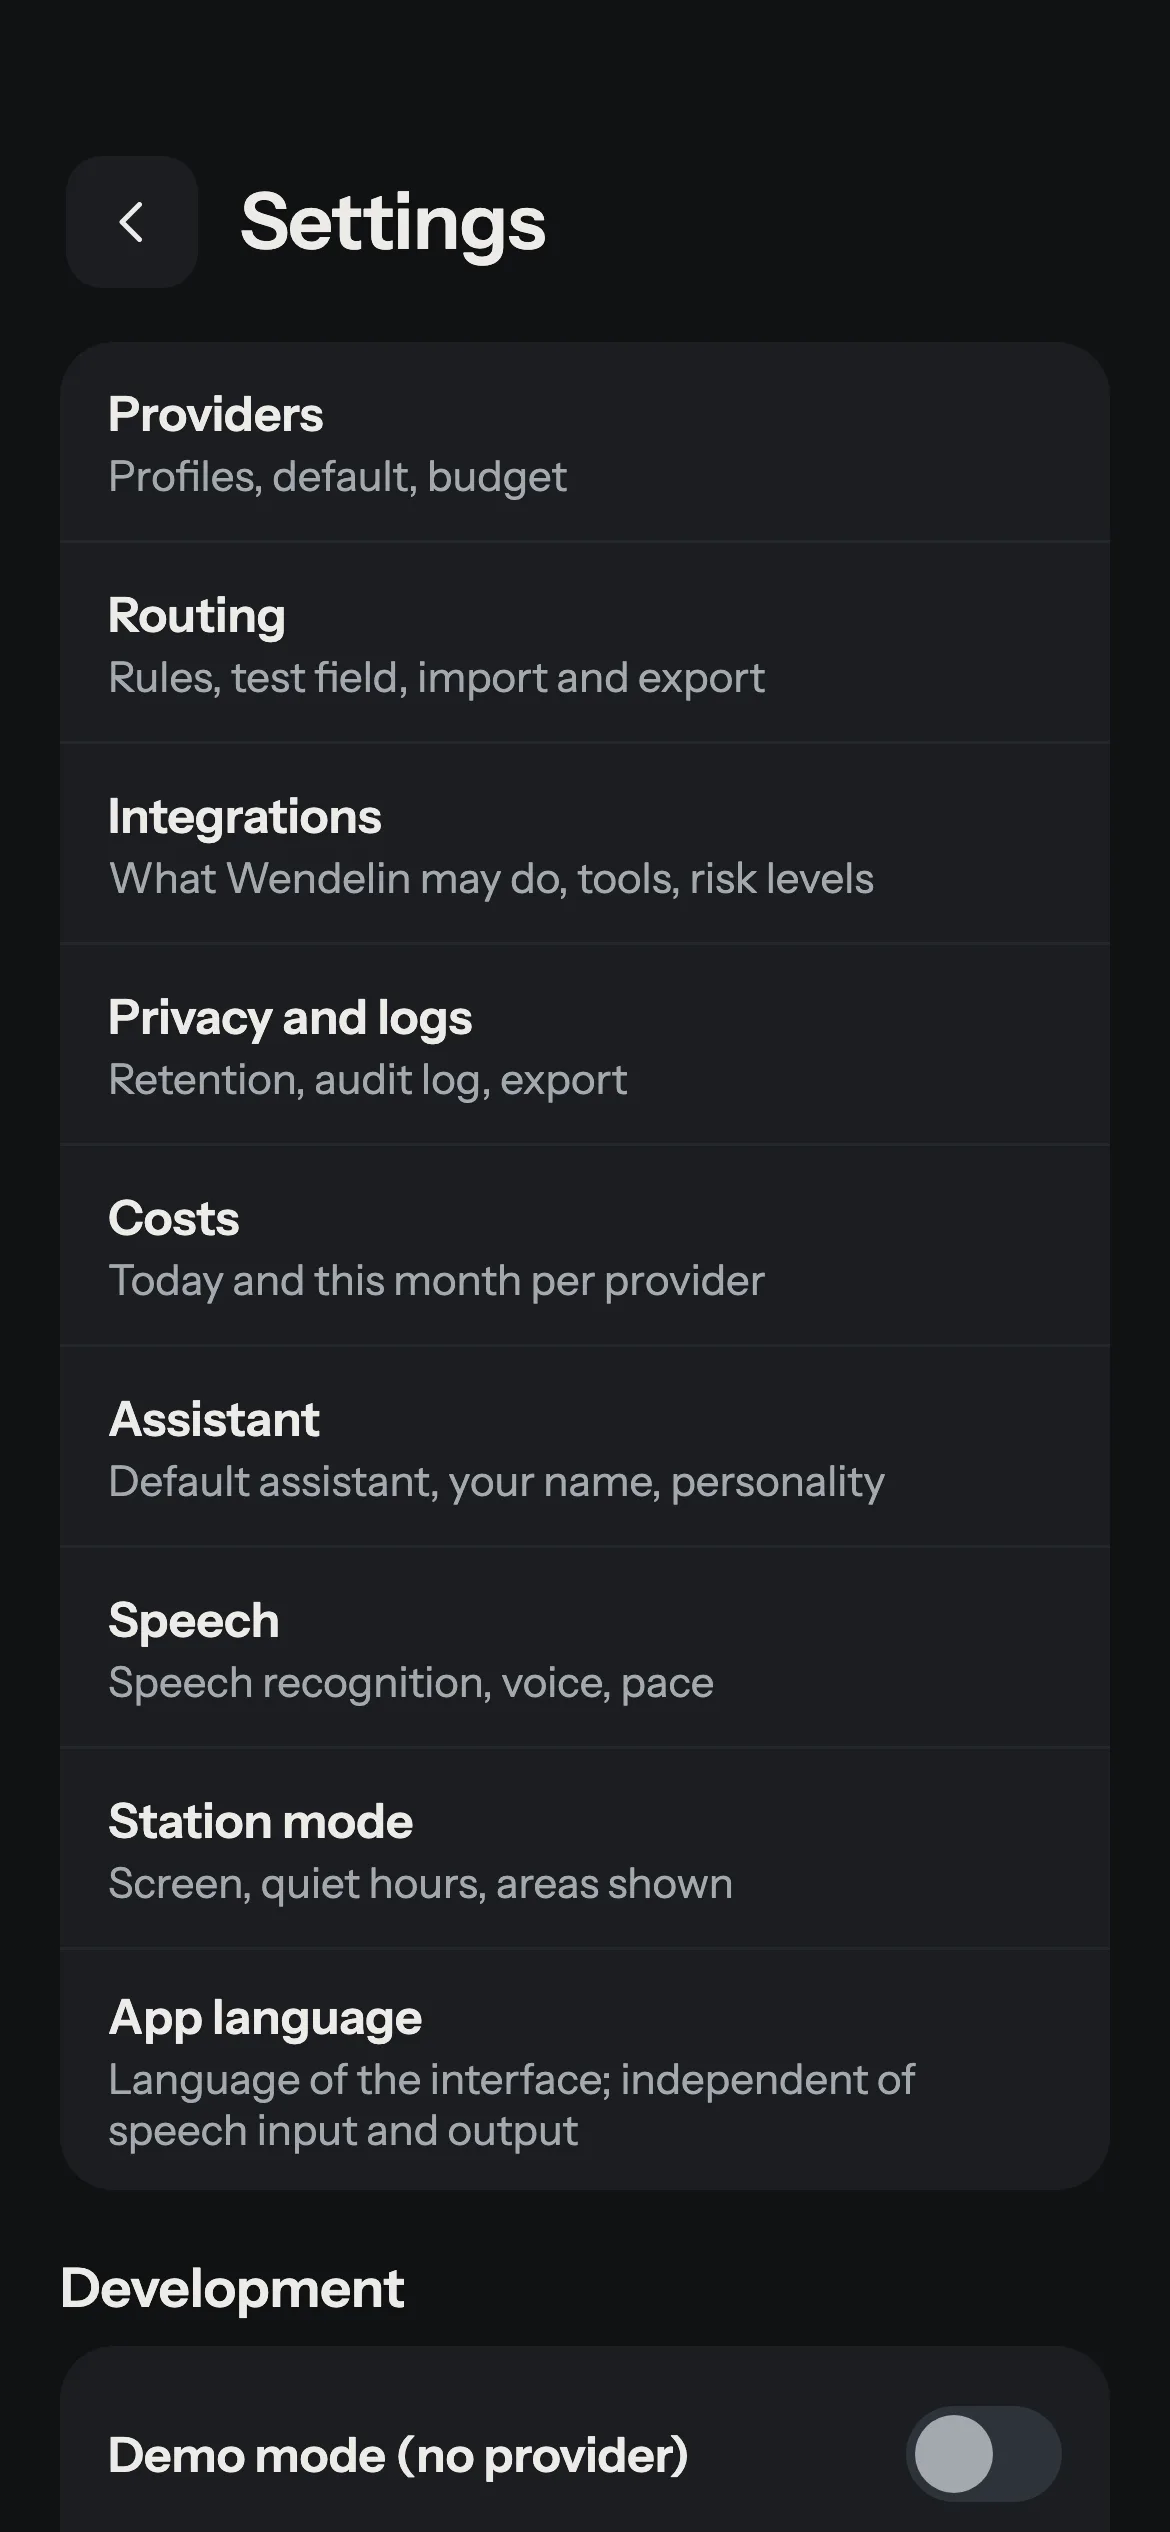
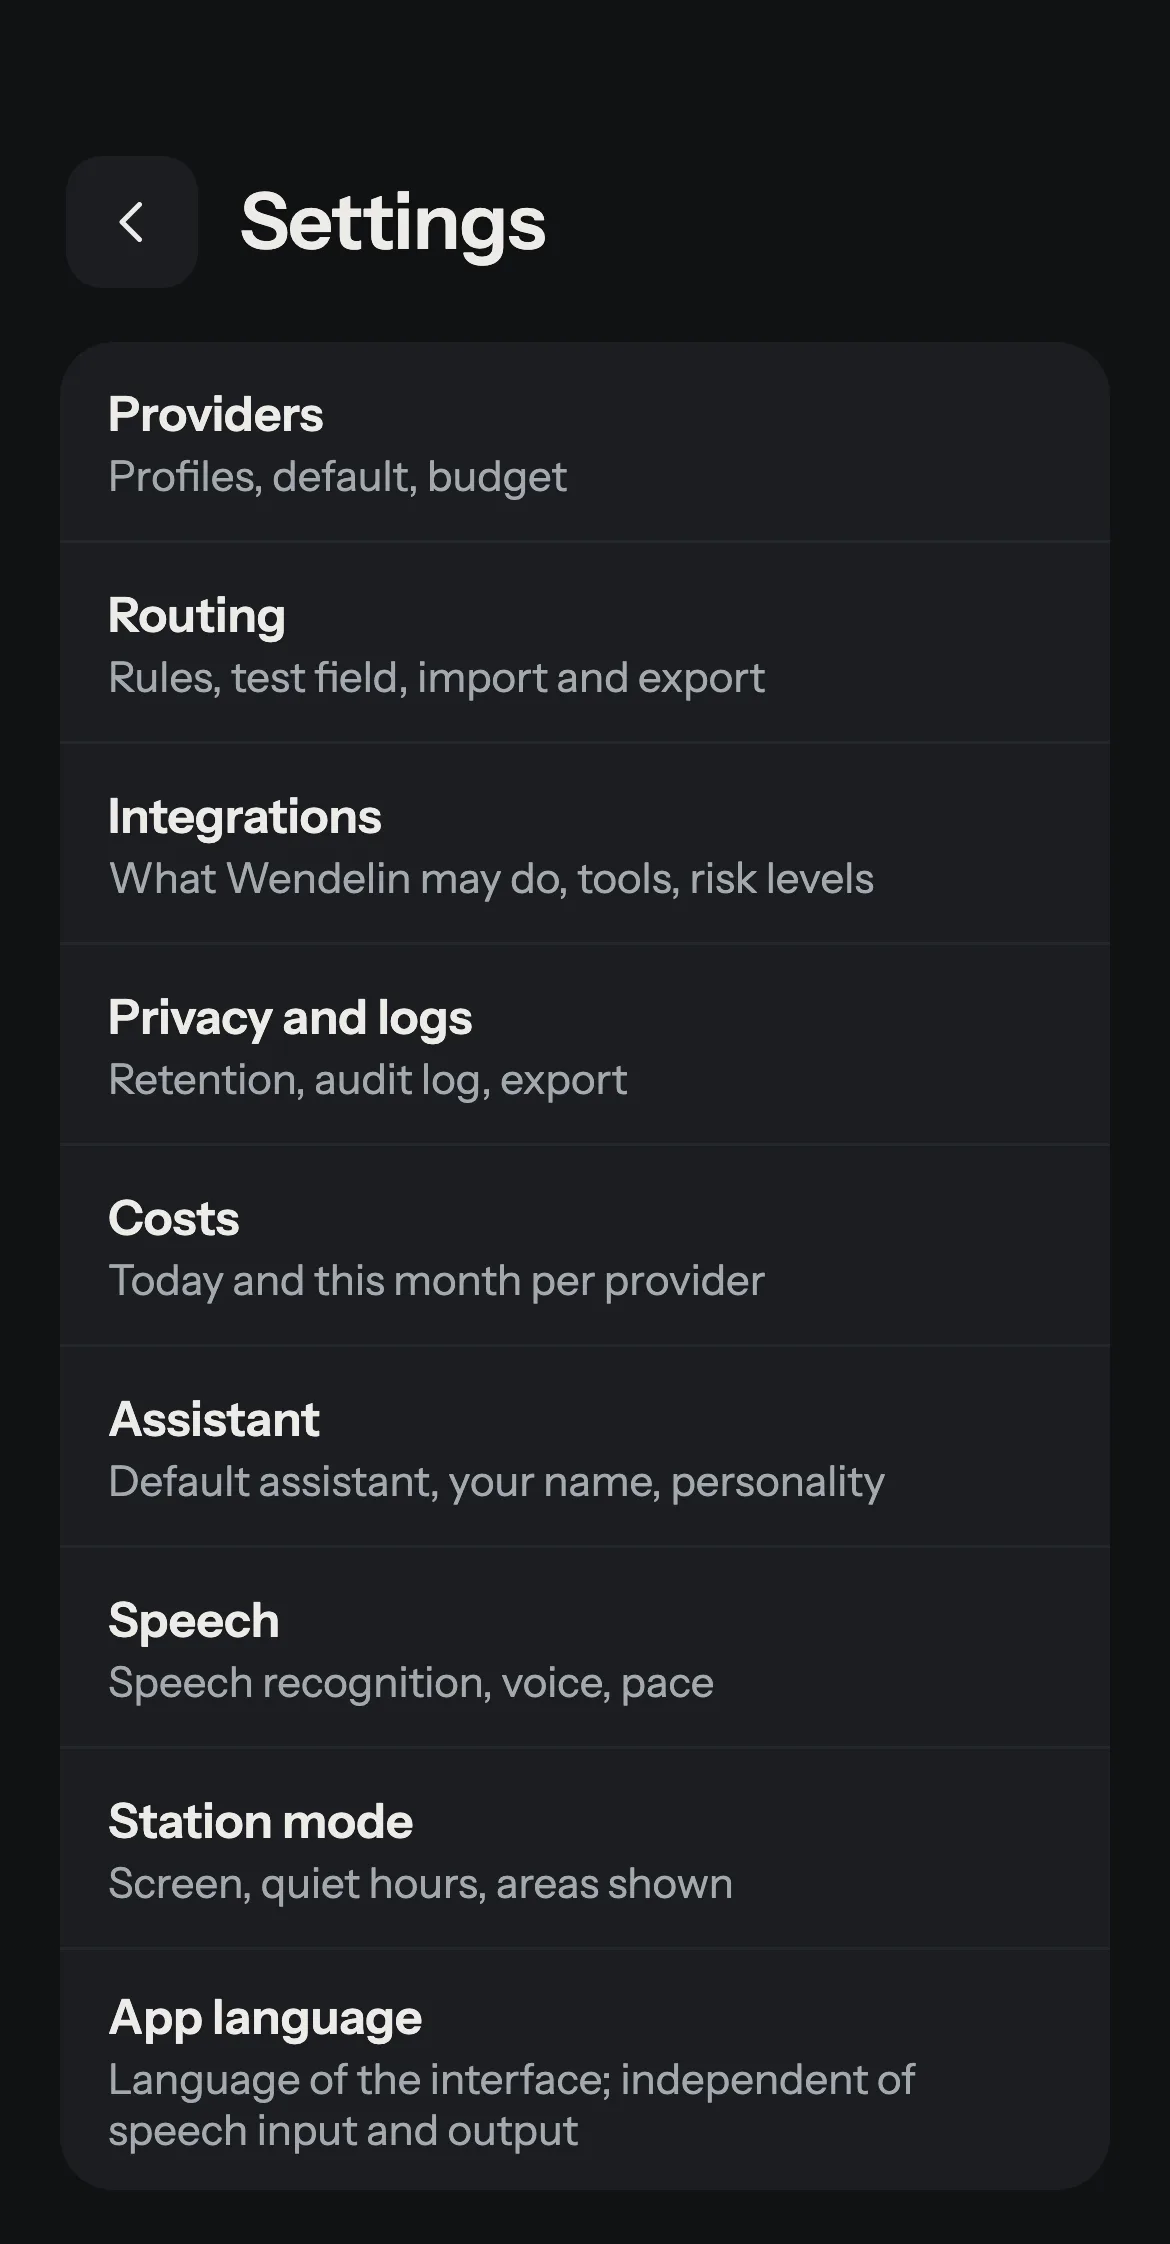
fix: WP169 l10n-gerechte Anführungszeichen, Screenshots (en Sprechsprache, Settings-Ausschnitt)

diff --git a/app/test/screenshots/screenshots_test.dart b/app/test/screenshots/screenshots_test.dart
@@ -35,10 +35,7 @@ final String? _skip = _dir == null ? 'only via tool/make_screenshots.sh' : null;
 
 const _dpr = 3.0;
 
-TestEnv _env({
-  Set<String>? enabled,
-  bool onboardingDone = true,
-}) => TestEnv(
+TestEnv _env({Set<String>? enabled, bool onboardingDone = true}) => TestEnv(
   providerConfig: onboardingDone
       ? scripted(
           FakeLlmProvider(const []),
@@ -49,6 +46,9 @@ TestEnv _env({
       : null,
   startup: StartupSettings(
     uiLanguage: 'en',
+    // The app defaults speech to German on every fresh install
+    // (StartupSettings.language), so the shot picks English explicitly.
+    language: 'en',
     onboardingDone: onboardingDone,
     enabledIntegrations:
         enabled ?? const {'calendar', 'memory', 'web', 'alarms', 'clipboard'},
@@ -56,10 +56,18 @@ TestEnv _env({
   storedProfiles: !onboardingDone,
 );
 
-Future<void> _show(WidgetTester tester, TestEnv env, Widget home) async {
-  setView(tester, screenSize, dpr: _dpr);
+Future<void> _show(
+  WidgetTester tester,
+  TestEnv env,
+  Widget home, {
+  Size? size,
+}) async {
+  setView(tester, size ?? screenSize, dpr: _dpr);
   await tester.pumpWidget(
-    RepaintBoundary(key: goldenKey, child: env.app(home: home)),
+    RepaintBoundary(
+      key: goldenKey,
+      child: env.app(home: home),
+    ),
   );
   await settle(tester);
 }
@@ -141,7 +149,10 @@ void main() {
           ConversationState(
             entries: [
               SessionStartEntry('s', testNow),
-              const UserEntry('u', 'Delete the dentist appointment on Thursday.'),
+              const UserEntry(
+                'u',
+                'Delete the dentist appointment on Thursday.',
+              ),
               const ToolEntry(
                 'c1',
                 toolName: 'calendar__delete_event',
@@ -167,16 +178,21 @@ void main() {
   });
 
   testWidgets('settings', skip: _skip != null, (tester) async {
-    await _show(tester, _env(), const SettingsScreen());
+    // Shorter view: ends below the last menu card, so the "Development"
+    // section (demo mode) is not cut off at the bottom.
+    await _show(
+      tester,
+      _env(),
+      const SettingsScreen(),
+      size: Size(screenSize.width, 748),
+    );
     await _save(tester, 'settings');
   });
 
   testWidgets('onboarding', skip: _skip != null, (tester) async {
     final env = _env(onboardingDone: false);
     setView(tester, screenSize, dpr: _dpr);
-    await tester.pumpWidget(
-      RepaintBoundary(key: goldenKey, child: env.app()),
-    );
+    await tester.pumpWidget(RepaintBoundary(key: goldenKey, child: env.app()));
     await settle(tester);
     expect(find.byType(OnboardingScreen), findsOneWidget);
     await _save(tester, 'onboarding');

diff --git a/app/test/screens/confirmation_sheet_test.dart b/app/test/screens/confirmation_sheet_test.dart
@@ -1,8 +1,10 @@
 // Regression (Review WP16): ein langer Diff von obsidian__replace_section
 // darf die Bestätigungskarte nicht sprengen – „Ja“ bleibt erreichbar.
 import 'package:flutter/material.dart';
+import 'package:flutter_localizations/flutter_localizations.dart';
 import 'package:flutter_test/flutter_test.dart';
 import 'package:wendelin/agent/conversation_state.dart';
+import 'package:wendelin/l10n/gen/app_localizations.dart';
 import 'package:wendelin/l10n/gen/app_localizations_de.dart';
 import 'package:wendelin/ui/screens/confirmation_sheet.dart';
 import 'package:wendelin_core/wendelin_core.dart';
@@ -87,4 +89,45 @@ void main() {
       expect(result, isTrue);
     },
   );
+
+  // WP169: Anführungszeichen um die Anfrage folgen der Oberflächensprache
+  // (vorher fest „…“).
+  for (final (code, open, close) in [
+    ('de', '„', '“'),
+    ('en', '“', '”'),
+    ('fr', '« ', ' »'),
+  ]) {
+    testWidgets('Anfrage in Anführungszeichen für $code', (tester) async {
+      await tester.pumpWidget(
+        MaterialApp(
+          locale: Locale(code),
+          localizationsDelegates: const [
+            AppLocalizations.delegate,
+            ...GlobalMaterialLocalizations.delegates,
+          ],
+          supportedLocales: AppLocalizations.supportedLocales,
+          home: Scaffold(
+            body: ConfirmationSheet(
+              question: ToolQuestion(
+                ConfirmationRequired(
+                  call: ToolCallBlock(
+                    id: 'c',
+                    name: 'a__b',
+                    argumentsJson: '{}',
+                  ),
+                  description: 'x',
+                  respond: (_) {},
+                ),
+                request: 'Delete it',
+              ),
+              providerName: 'Claude',
+              privacy: PrivacyLevel.standard,
+            ),
+          ),
+        ),
+      );
+      await tester.pumpAndSettle();
+      expect(find.text('${open}Delete it$close'), findsOneWidget);
+    });
+  }
 }

diff --git a/app/lib/ui/screens/confirmation_sheet.dart b/app/lib/ui/screens/confirmation_sheet.dart
@@ -90,7 +90,7 @@ class ConfirmationSheet extends StatelessWidget {
                   spacing: WSpace.l18,
                   children: [
                     if (quote != null && quote.isNotEmpty)
-                      Text('„$quote“', style: WText.quote),
+                      Text(context.l10n.quotedText(quote), style: WText.quote),
                     card,
                     hint.widget(context.l10n, outgoing: outgoing?.kind),
                   ],

diff --git a/app/lib/l10n/gen/app_localizations.dart b/app/lib/l10n/gen/app_localizations.dart
@@ -2368,6 +2368,12 @@ abstract class AppLocalizations {
   /// **'Öffnen'**
   String get open;
 
+  /// No description provided for @quotedText.
+  ///
+  /// In de, this message translates to:
+  /// **'„{text}“'**
+  String quotedText(String text);
+
   /// No description provided for @remove.
   ///
   /// In de, this message translates to:

diff --git a/app/lib/ui/settings/memory_screen.dart b/app/lib/ui/settings/memory_screen.dart
@@ -102,7 +102,7 @@ class MemoryScreen extends ConsumerWidget {
     final ok = await confirm(
       context,
       title: context.l10n.memoryForgetTitle,
-      message: '„${e.text}“',
+      message: context.l10n.quotedText(e.text),
       yes: context.l10n.memoryForget,
     );
     if (!ok) return;

diff --git a/app/lib/l10n/gen/app_localizations_de.dart b/app/lib/l10n/gen/app_localizations_de.dart
@@ -1346,6 +1346,11 @@ class AppLocalizationsDe extends AppLocalizations {
   String get open => 'Öffnen';
 
   @override
+  String quotedText(String text) {
+    return '„$text“';
+  }
+
+  @override
   String get remove => 'Entfernen';
 
   @override

diff --git a/app/lib/l10n/gen/app_localizations_fr.dart b/app/lib/l10n/gen/app_localizations_fr.dart
@@ -1353,6 +1353,11 @@ class AppLocalizationsFr extends AppLocalizations {
   String get open => 'Ouvrir';
 
   @override
+  String quotedText(String text) {
+    return '« $text »';
+  }
+
+  @override
   String get remove => 'Retirer';
 
   @override

diff --git a/app/lib/l10n/gen/app_localizations_en.dart b/app/lib/l10n/gen/app_localizations_en.dart
@@ -1329,6 +1329,11 @@ class AppLocalizationsEn extends AppLocalizations {
   String get open => 'Open';
 
   @override
+  String quotedText(String text) {
+    return '“$text”';
+  }
+
+  @override
   String get remove => 'Remove';
 
   @override
